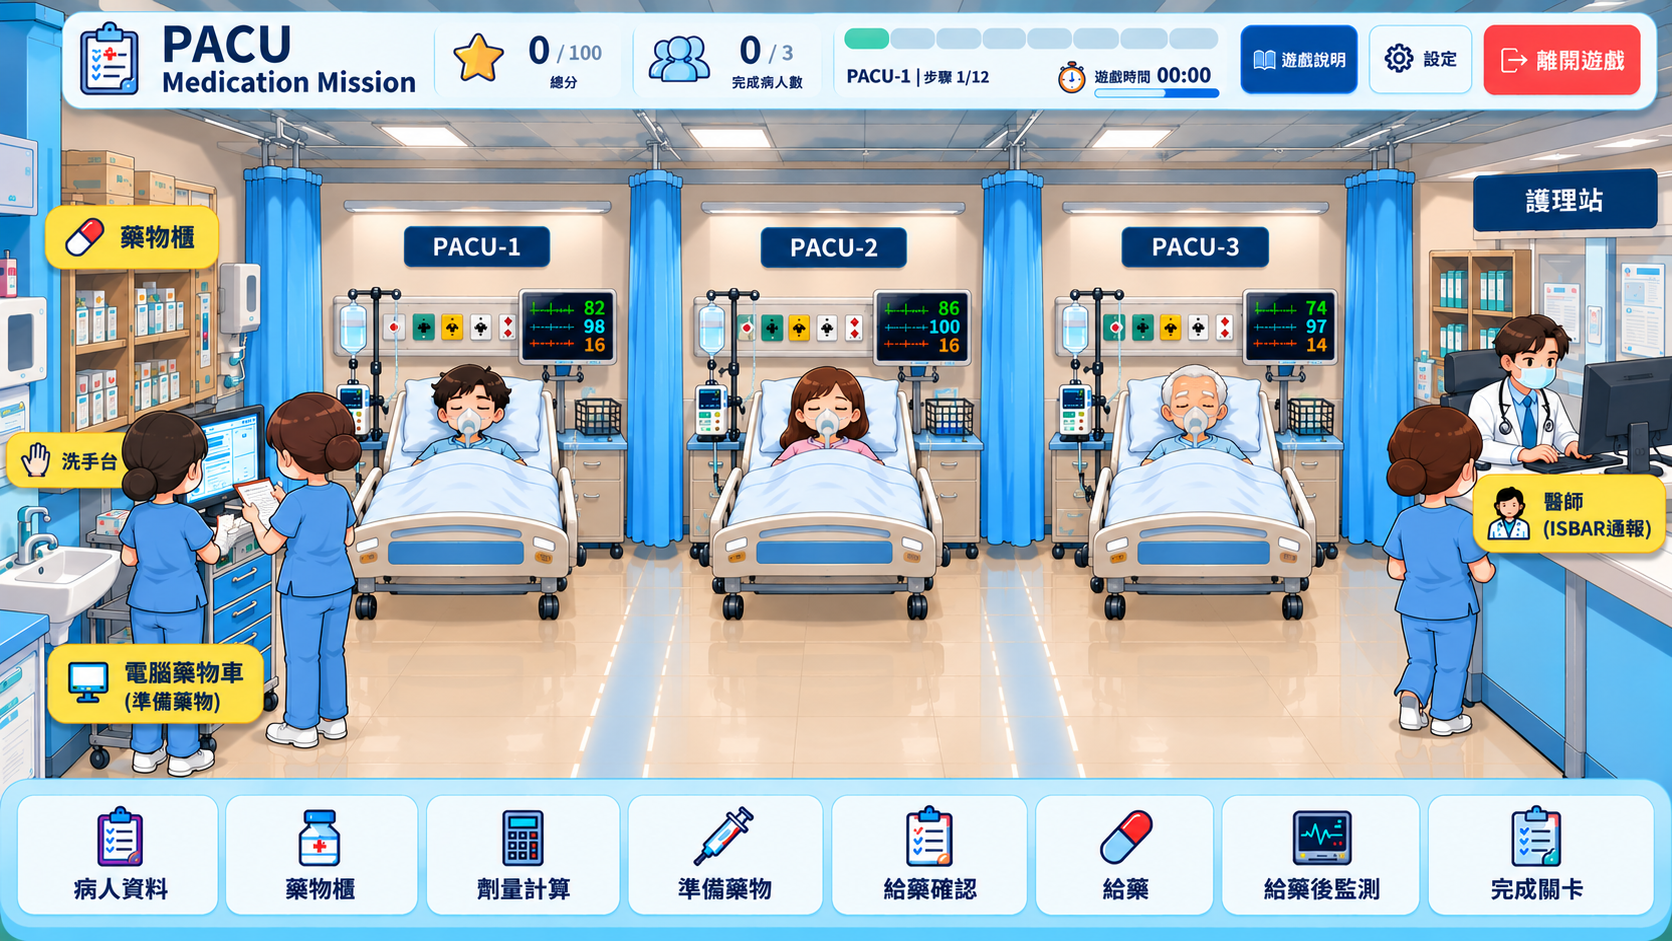
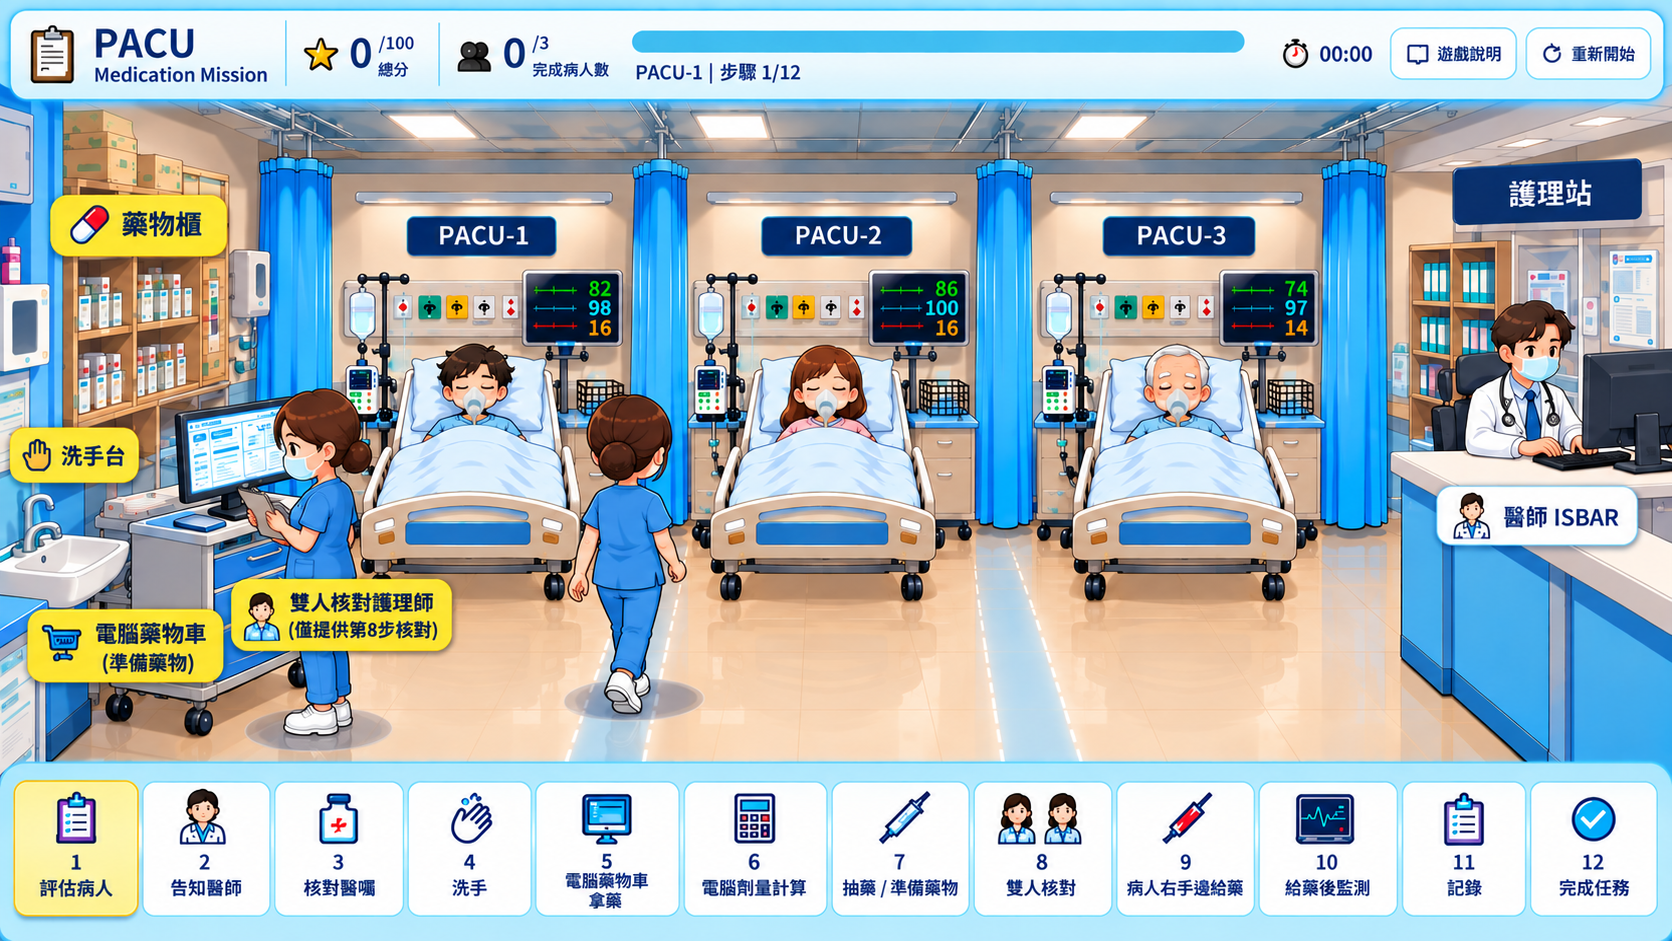
Add files via upload

diff --git a/js/app.js b/js/app.js
@@ -3,19 +3,20 @@ import {SCENARIOS,MEDICATIONS,STEP_NAMES} from './data.js';
 import {createGameState,currentScenario,completeStep,submitMedication,submitDose,canAdminister} from './game-state.js';
 let state=createGameState(), timerHandle;
 const $=s=>document.querySelector(s), modal=$('#modal'), body=$('#modalBody');
-const zones={bed:'45%',doctor:'88%',sink:'5%',cart:'16%',iv:'39%',monitor:'64%'};
-const expectedZone={1:'bed',2:'doctor',3:'cart',4:'sink',5:'cart',6:'cart',7:'cart',8:'cart',9:'iv',10:'monitor',11:'sink',12:'cart'};
+const zones={monitor1:'34%',monitor2:'54%',monitor3:'73%',doctor:'88%',sink:'5%',cart:'18%',iv1:'29%',iv2:'49%',iv3:'68%'};
+function patientZone(kind){return `${kind}${state.patientIndex+1}`}
+function expectedZone(){if(state.step===1||state.step===10)return patientZone('monitor');if(state.step===9)return patientZone('iv');return ({2:'doctor',3:'cart',4:'sink',5:'cart',6:'cart',7:'cart',8:'cart',11:'sink',12:'cart'})[state.step]}
 function esc(s){return String(s).replace(/[&<>"']/g,m=>({'&':'&amp;','<':'&lt;','>':'&gt;','"':'&quot;',"'":'&#39;'}[m]));}
 function toast(msg){const t=$('#toast');t.textContent=msg;t.classList.add('show');setTimeout(()=>t.classList.remove('show'),2200)}
 function render(){
  $('#score').textContent=state.score;$('#patients').textContent=state.completed;
- if(state.step<=12){const sc=currentScenario(state);$('#step').textContent=`${sc.id}｜步驟 ${state.step}/12`;$('#bar').style.width=`${((state.patientIndex*12+state.step-1)/36)*100}%`;$('#missionTitle').textContent=`目前任務：${STEP_NAMES[state.step-1]}`;$('#missionHint').textContent=`請前往：${zoneLabel(expectedZone[state.step])}`;}
+ if(state.step<=12){const sc=currentScenario(state);$('#step').textContent=`${sc.id}｜步驟 ${state.step}/12`;$('#bar').style.width=`${((state.patientIndex*12+state.step-1)/36)*100}%`;$('#missionTitle').textContent=`目前任務：${STEP_NAMES[state.step-1]}`;$('#missionHint').textContent=`請前往：${zoneLabel(expectedZone())}`;}
  else{$('#step').textContent='任務完成';$('#bar').style.width='100%';$('#missionTitle').textContent='三位病人照護完成';$('#missionHint').textContent='查看學習成果';}
  $('#taskbar').innerHTML=STEP_NAMES.map((n,i)=>`<button class="task ${i+1<state.step?'done':''} ${i+1===state.step?'current':''}" data-step="${i+1}"><b>${i+1}</b><br>${n}</button>`).join('');
 }
-function zoneLabel(z){return ({bed:'病人床側',doctor:'護理站醫師',cart:'電腦藥物車',sink:'洗手台',iv:'病人點滴架側',monitor:'病人監視器側'})[z]}
-function move(zone){$('#nurse').style.left=zones[zone]||'12%';if(state.step>12)return results();if(expectedZone[state.step]!==zone){toast(`目前步驟需前往「${zoneLabel(expectedZone[state.step])}」`);return;}setTimeout(()=>openStep(),350)}
-document.querySelectorAll('.hotspot').forEach(b=>b.onclick=()=>move(b.dataset.zone));
+function zoneLabel(z){const n=state.patientIndex+1;if(z===`monitor${n}`)return `PACU-${n} 生理監視器側`;if(z===`iv${n}`)return `PACU-${n} 病人點滴側`;return ({doctor:'護理站醫師',cart:'電腦藥物車',sink:'洗手台'})[z]||'目前病人照護區'}
+function move(zone){document.querySelectorAll('.move-marker').forEach(x=>x.remove());const marker=document.createElement('div');marker.className='move-marker';marker.style.left=zones[zone]||'12%';marker.textContent='▼ 主要護理師位置';$('#scene').appendChild(marker);if(state.step>12)return results();if(expectedZone()!==zone){toast(`目前步驟需前往「${zoneLabel(expectedZone())}」`);return;}setTimeout(()=>openStep(),350)}
+document.querySelectorAll('.hotspot,.clinical-zone').forEach(b=>b.onclick=()=>move(b.dataset.zone));
 function show(html){body.innerHTML=html;modal.classList.add('show');modal.setAttribute('aria-hidden','false')}
 function hide(){modal.classList.remove('show');modal.setAttribute('aria-hidden','true')}
 $('#close').onclick=hide;
@@ -28,7 +29,7 @@ function assessment(sc){show(`<h2>1. 評估病人｜${sc.id}</h2><div class="cas
 function isbar(sc){show(`<h2>2. 告知醫師（ISBAR）</h2><div class="case">${sc.isbar}</div><div class="checks">${['I：自我介紹／病人身分','S：目前主要問題','B：手術與相關背景','A：目前評估與生命徵象','R：提出處置／評估建議'].map(x=>`<label><input type="checkbox" class="need">${x}</label>`).join('')}</div><button class="primary" id="ok">送出 ISBAR</button><div id="fb"></div>`);$('#ok').onclick=()=>{if([...document.querySelectorAll('.need')].every(x=>x.checked))advance(true,'ISBAR 通報完成');else $('#fb').innerHTML='<p class="danger">ISBAR 不完整：請依 I、S、B、A、R 順序完成通報。</p>'}}
 function order(sc){show(`<h2>3. 核對醫囑</h2><div class="case"><b>醫囑：</b>${sc.order}</div><div class="checks">${['藥名','劑量','給藥途徑 IVP','給藥時間 STAT'].map(x=>`<label><input type="checkbox" class="need">${x}</label>`).join('')}</div><button class="primary" id="ok">完成核對</button><div id="fb"></div>`);$('#ok').onclick=()=>{if([...document.querySelectorAll('.need')].every(x=>x.checked))advance(true,'醫囑核對完成');else $('#fb').innerHTML='<p class="danger">醫囑核對不完整：需確認藥名、劑量、途徑及時間。</p>'}}
 function handwash(step){show(`<h2>${step}. ${step===4?'第一次':'第二次'}洗手</h2><div class="case">依序完成手部衛生後再繼續。</div><button class="primary" id="ok">🫧 開始洗手</button><div id="wash"></div>`);$('#ok').onclick=()=>{let n=0;const d=$('#wash');const it=setInterval(()=>{n++;d.innerHTML=`<p>洗手進度 ${'●'.repeat(n)}${'○'.repeat(5-n)}</p>`;if(n===5){clearInterval(it);setTimeout(()=>advance(true,'手部衛生完成'),300)}},180)}}
-function meds(sc){show(`<h2>5. 選擇藥物（38 種藥物櫃）</h2><p>依醫囑選擇正確藥物。錯誤最多再給一次機會。</p><div class="medgrid">${MEDICATIONS.map(m=>m.image?`<button class="medcard" data-id="${m.id}"><img src="${m.image}" alt="${esc(m.name)}"><span>${esc(m.name)}</span></button>`:`<button class="medcard missing" data-id="${m.id}"><b>38</b><span>${esc(m.name)}</span></button>`).join('')}</div><div id="fb"></div>`);document.querySelectorAll('.medcard').forEach(b=>b.onclick=()=>{const r=submitMedication(state,b.dataset.id);if(r.status==='correct'){hide();toast('藥物辨識正確 +5 分');render()}else if(r.status==='retry'){$('#fb').innerHTML='<p class="danger">藥物選擇錯誤。請重新核對醫囑與藥物外觀；剩最後一次機會。</p>';b.disabled=true}else{$('#fb').innerHTML=`<p class="danger">第二次仍錯誤，本項 0 分。正確藥物：<b>${esc(r.answer)}</b></p><button class="primary" id="continue">繼續</button>`;$('#continue').onclick=()=>{hide();render()}}})}
+function meds(sc){show(`<h2>5. 藥物櫃｜共 38 種藥物</h2><p>依醫囑選擇正確藥物。錯誤最多再給一次機會。</p><div class="medgrid">${MEDICATIONS.map((m,i)=>m.image?`<button class="medcard" data-id="${m.id}"><b class="mednum">${i+1}</b><img src="${m.image}" alt="${esc(m.name)}"><span>${esc(m.name)}</span></button>`:`<button class="medcard missing" data-id="${m.id}"><b class="mednum">${i+1}</b><div class="missing-photo">待補圖片</div><span>${esc(m.name)}</span></button>`).join('')}</div><div id="fb"></div>`);document.querySelectorAll('.medcard').forEach(b=>b.onclick=()=>{const r=submitMedication(state,b.dataset.id);if(r.status==='correct'){hide();toast('藥物辨識正確 +5 分');render()}else if(r.status==='retry'){$('#fb').innerHTML='<p class="danger">藥物選擇錯誤。請重新核對醫囑與藥物外觀；剩最後一次機會。</p>';b.disabled=true}else{$('#fb').innerHTML=`<p class="danger">第二次仍錯誤，本項 0 分。正確藥物：<b>${esc(r.answer)}</b></p><button class="primary" id="continue">繼續</button>`;$('#continue').onclick=()=>{hide();render()}}})}
 function dose(sc){show(`<h2>6. 劑量計算</h2><div class="case"><b>醫囑：</b>${sc.order}<br><b>藥物規格：</b>${sc.drug}</div><div class="calc">醫囑劑量 ÷ 每 mL 含量 = 抽取量<br><input id="doseInput" type="number" step="0.1"> mL</div><button class="primary" id="ok">確認答案</button><div id="fb"></div>`);$('#ok').onclick=()=>{const r=submitDose(state,$('#doseInput').value);if(r.status==='correct'){hide();toast('劑量計算正確 +5 分');render()}else if(r.status==='retry'){$('#fb').innerHTML='<p class="danger">計算錯誤，請重新核對濃度與醫囑劑量；剩最後一次機會。</p>'}else{$('#fb').innerHTML=`<p class="danger">第二次仍錯誤，本項 0 分。正確抽取量：<b>${r.answer} mL</b></p><button class="primary" id="continue">繼續</button>`;$('#continue').onclick=()=>{hide();render()}}}}
 function prep(sc){show(`<h2>7. 抽藥／準備藥物</h2><div class="case">${sc.drug}<br>目標抽取量：<b>${sc.correctVolume} mL</b></div><div class="calc">💉 請輸入實際抽取量 <input id="prep" type="number" step="0.1"> mL</div><button class="primary" id="ok">確認抽取量</button><div id="fb"></div>`);$('#ok').onclick=()=>{if(Math.abs(Number($('#prep').value)-sc.correctVolume)<.001)advance(true,'藥物準備完成');else $('#fb').innerHTML=`<p class="danger">抽取量與計算結果不一致。請重新確認，正確應為 ${sc.correctVolume} mL。</p>`}}
 function doublecheck(sc){show(`<h2>8. 雙人核對｜電腦藥物車旁</h2><p>第二位護理師已到場 👩🏻⚕ 👩🏻⚕</p><div class="case"><b>${sc.id}</b>｜${sc.order}｜${sc.drug}｜抽取 ${sc.correctVolume} mL</div><div class="checks">${['病人身分','藥名','醫囑劑量','藥物濃度','計算後抽取量','給藥途徑 IVP','STAT 醫囑','藥物效期'].map(x=>`<label><input type="checkbox" class="need">${x}</label>`).join('')}</div><button class="primary" id="ok">確認完成雙人核對</button><div id="fb"></div>`);$('#ok').onclick=()=>{if([...document.querySelectorAll('.need')].every(x=>x.checked))advance(true,'雙人核對完成');else $('#fb').innerHTML='<p class="danger">安全核對尚未完成，無法進入給藥步驟。</p>'}}

diff --git a/css/game.css b/css/game.css
@@ -8,8 +8,22 @@ main{padding:12px 18px 18px}.scene{position:relative;max-width:1600px;margin:aut
 .nurse{position:absolute;left:12%;bottom:8%;font-size:64px;filter:drop-shadow(0 4px 3px #2348);transition:left .55s,top .55s,bottom .55s;z-index:3}.mission{position:absolute;left:50%;bottom:2%;transform:translateX(-50%);background:#ffffffed;border:2px solid #55bfea;border-radius:16px;padding:9px 22px;text-align:center;box-shadow:0 5px 12px #1456}.mission b,.mission span{display:block}.mission span{font-size:13px;margin-top:3px}
 .taskbar{max-width:1600px;margin:10px auto 0;display:grid;grid-template-columns:repeat(12,1fr);gap:6px}.task{min-height:68px;border:2px solid #b8e2f5;background:#fff;border-radius:13px;color:#174e7b;padding:6px;font-size:12px;font-weight:800}.task.current{border-color:#ffbe16;background:#fff6c8;transform:translateY(-2px)}.task.done{background:#d9f7ed;color:#14745e}
 .modal{position:fixed;inset:0;background:#082e5688;display:none;align-items:center;justify-content:center;padding:24px;z-index:20}.modal.show{display:flex}.panel{position:relative;background:#f8fcff;border:4px solid #7bd2f3;border-radius:24px;box-shadow:0 22px 60px #0018;padding:26px;max-width:980px;width:min(980px,96vw);max-height:90vh;overflow:auto}.x{position:absolute;right:14px;top:10px;border:0;background:none;font-size:30px;color:#557}.panel h2{margin:0 0 8px;font-size:28px}.panel .case{background:#e9f7ff;border-radius:14px;padding:14px;margin:12px 0}.vitals{display:flex;gap:10px;flex-wrap:wrap}.chip{background:#073d69;color:white;border-radius:10px;padding:7px 12px}.options{display:grid;gap:8px;margin:14px 0}.option{border:2px solid #c8dfeb;background:white;border-radius:12px;padding:12px;text-align:left}.primary{border:0;background:linear-gradient(#149cf1,#0871d0);color:#fff;border-radius:12px;padding:12px 24px;font-weight:900}.danger{background:#fff1f0;border:2px solid #ff8a80;color:#9d1d16;border-radius:12px;padding:12px}.success{background:#e6faf1;border:2px solid #68d7ad;color:#12644c;border-radius:12px;padding:12px}
-.medgrid{display:grid;grid-template-columns:repeat(5,1fr);gap:10px}.medcard{background:white;border:2px solid #cbe0eb;border-radius:12px;padding:8px;min-height:155px;display:flex;flex-direction:column;align-items:center;justify-content:center;color:#123}.medcard img{max-width:92px;max-height:105px;object-fit:contain}.medcard span{font-size:11px;margin-top:5px}.medcard.missing{border-style:dashed;color:#777}
+.medgrid{display:grid;grid-template-columns:repeat(4,1fr);gap:14px}.medcard{position:relative;background:white;border:2px solid #9bd7f1;border-radius:14px;padding:10px;min-height:220px;display:flex;flex-direction:column;align-items:center;justify-content:center;color:#123}.medcard img{width:100%;max-width:180px;max-height:150px;object-fit:contain}.medcard span{font-size:13px;font-weight:800;line-height:1.25;margin-top:7px;text-align:center}.medcard.missing{border-style:dashed;color:#777}.mednum{position:absolute;left:8px;top:8px;background:#159bd7;color:white;border-radius:50%;width:27px;height:27px;display:grid;place-items:center}.missing-photo{height:150px;display:grid;place-items:center;color:#888;font-weight:800}
 .calc{font-size:24px;text-align:center;background:white;border:2px solid #b9dced;border-radius:15px;padding:18px;margin:14px 0}.calc input{width:130px;font-size:26px;padding:8px;border:2px solid #8bc5e2;border-radius:10px}
 .checks label{display:block;background:white;border-bottom:1px solid #d7e7ee;padding:10px}.checks input{transform:scale(1.25);margin-right:9px}.toast{position:fixed;top:126px;left:50%;transform:translateX(-50%) translateY(-20px);opacity:0;background:#063f73;color:#fff;padding:12px 22px;border-radius:30px;z-index:30;transition:.25s;pointer-events:none}.toast.show{opacity:1;transform:translateX(-50%)}
 .result{display:grid;grid-template-columns:1fr 1fr;gap:14px}.scorebig{font-size:70px;font-weight:900;color:#0877c9;text-align:center}.errorlog{max-height:220px;overflow:auto;background:#fff4f2;padding:12px;border-radius:12px}
-@media(max-width:1000px){.hud{height:auto;flex-wrap:wrap}.brand{min-width:220px}.brand b{font-size:28px}.taskbar{grid-template-columns:repeat(6,1fr)}.medgrid{grid-template-columns:repeat(3,1fr)}}
+@media(max-width:1000px){.hud{height:auto;flex-wrap:wrap}.brand{min-width:220px}.brand b{font-size:28px}.taskbar{grid-template-columns:repeat(6,1fr)}.medgrid{display:grid;grid-template-columns:repeat(4,1fr);gap:14px}.medcard{position:relative;background:white;border:2px solid #9bd7f1;border-radius:14px;padding:10px;min-height:220px;display:flex;flex-direction:column;align-items:center;justify-content:center;color:#123}.medcard img{width:100%;max-width:180px;max-height:150px;object-fit:contain}.medcard span{font-size:13px;font-weight:800;line-height:1.25;margin-top:7px;text-align:center}.medcard.missing{border-style:dashed;color:#777}.mednum{position:absolute;left:8px;top:8px;background:#159bd7;color:white;border-radius:50%;width:27px;height:27px;display:grid;place-items:center}.missing-photo{height:150px;display:grid;place-items:center;color:#888;font-weight:800}
+
+/* Nurse-count correction: no extra nurse sprite is rendered by the app. */
+.nurse{display:none!important}
+.move-marker{position:absolute;bottom:8%;transform:translateX(-50%);z-index:6;
+ background:#0759a5;color:#fff;border:3px solid #fff;border-radius:999px;
+ padding:7px 12px;font-weight:900;font-size:13px;box-shadow:0 4px 12px #1238;
+ transition:left .55s}
+
+.clinical-zone{position:absolute;border:0;background:transparent;z-index:5;border-radius:20px;cursor:pointer;color:transparent}
+.clinical-zone:hover{outline:4px solid #3bc7ff88;background:#3bc7ff18}
+.mon1{left:30%;top:28%;width:10%;height:25%}.mon2{left:49%;top:28%;width:10%;height:25%}.mon3{left:68%;top:28%;width:10%;height:25%}
+.iv1{left:23%;top:35%;width:8%;height:35%}.iv2{left:43%;top:35%;width:8%;height:35%}.iv3{left:62%;top:35%;width:8%;height:35%}
+.panel{max-width:1180px;width:min(1180px,96vw)}
+@media(max-width:1000px){.medgrid{grid-template-columns:repeat(2,1fr)}}

diff --git a/index.html b/index.html
@@ -17,11 +17,15 @@
     <button class="hotspot sink" data-zone="sink">🫧 洗手台</button>
     <button class="hotspot cart" data-zone="cart">💊 電腦藥物車</button>
     <button class="hotspot doctor" data-zone="doctor">👨⚕ 醫師 ISBAR</button>
-    <button class="hotspot bed b1" data-zone="bed">PACU-1</button><button class="hotspot bed b2" data-zone="bed">PACU-2</button><button class="hotspot bed b3" data-zone="bed">PACU-3</button>
-    <button class="hotspot iv" data-zone="iv">💉 點滴架側</button><button class="hotspot monitor" data-zone="monitor">📈 監視器側</button>
+    <button class="hotspot bed b1" data-zone="monitor1">PACU-1</button><button class="hotspot bed b2" data-zone="monitor2">PACU-2</button><button class="hotspot bed b3" data-zone="monitor3">PACU-3</button>
+    <button class="clinical-zone iv1" data-zone="iv1" aria-label="PACU-1 點滴給藥區"></button>
+    <button class="clinical-zone iv2" data-zone="iv2" aria-label="PACU-2 點滴給藥區"></button>
+    <button class="clinical-zone iv3" data-zone="iv3" aria-label="PACU-3 點滴給藥區"></button>
+    <button class="clinical-zone mon1" data-zone="monitor1" aria-label="PACU-1 生理監視器評估區"></button>
+    <button class="clinical-zone mon2" data-zone="monitor2" aria-label="PACU-2 生理監視器評估區"></button>
+    <button class="clinical-zone mon3" data-zone="monitor3" aria-label="PACU-3 生理監視器評估區"></button>
    </div>
-   <div id="nurse" class="nurse">👩🏻⚕</div>
-   <div class="mission"><b id="missionTitle">目前任務：評估病人</b><span id="missionHint">請走到目前病人床側</span></div>
+   <div class="mission"><b id="missionTitle">目前任務：評估病人</b><span id="missionHint">請走到目前病人的生理監視器側</span></div>
  </section>
  <nav id="taskbar" class="taskbar" aria-label="12步驟流程"></nav>
 </main>
